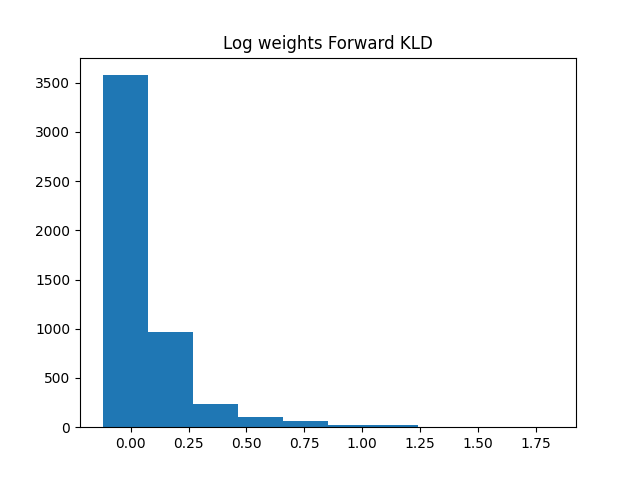
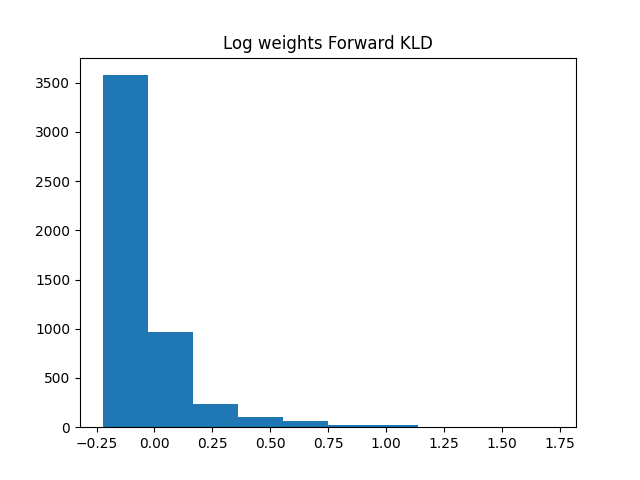
Added normalization of the true probability p

Changed region(s): [[0.125, 0.9062, 0.9062, 0.9375]]

diff --git a/utils/dataset_class.py b/utils/dataset_class.py
@@ -25,7 +25,10 @@ class SystematicDataset(torch.nn.Module):
         self.data = torch.tensor(data['data'], dtype=torch.float32)
         self.mean = torch.tensor(data['mean'], dtype=torch.float32)
         self.cov = torch.tensor(data['cov'], dtype=torch.float32)
-        self.log_p = torch.tensor(data['log_p'], dtype=torch.float32)
+        self.norm = 1.1084
+        p = torch.exp(-torch.tensor(data['log_p'], dtype=torch.float32))  
+        p_normalized = p / self.norm  
+        self.log_p = -torch.log(p_normalized)  
         self.titles = data['par_names']
         self.cholesky = torch.linalg.cholesky(self.cov)
         self.nsample, self.ndim = self.data.shape
